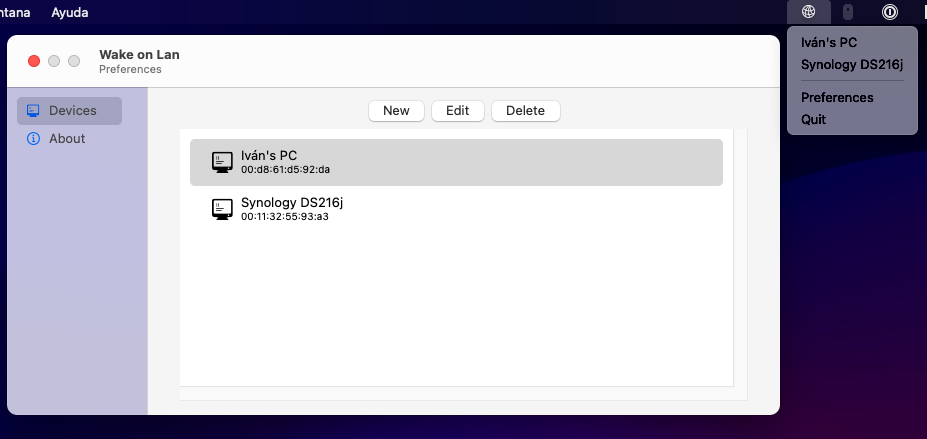
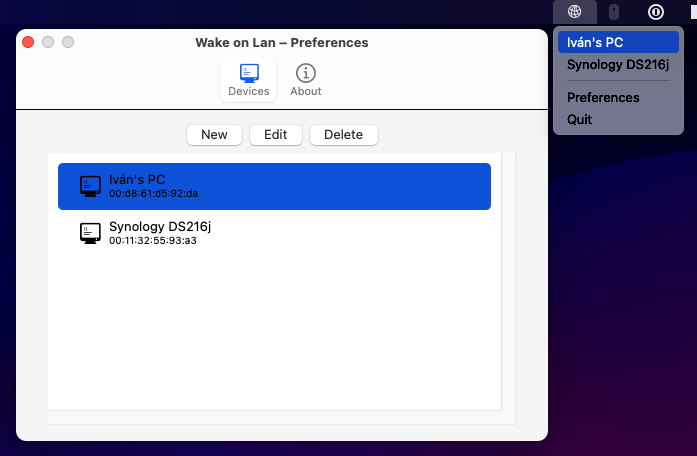
some styling for the preferences toolbar

diff --git a/Wake on Lan/AppKit/AKPreferencesWindow.swift b/Wake on Lan/AppKit/AKPreferencesWindow.swift
@@ -11,7 +11,6 @@ import SwiftUI
 class AKPreferencesWindow : NSWindow {
     
     let preferencesWindowToolbarIdentifier = NSToolbar.Identifier("PreferencesWindowToolbar")
-    
     let toolbarItemDevices = NSToolbarItem.Identifier("ToolbarDevicesItem")
     let toolbarItemAbout = NSToolbarItem.Identifier("ToolbarAboutItem")
     
@@ -19,21 +18,19 @@ class AKPreferencesWindow : NSWindow {
     
     init() {
         let frame = NSRect(x: 0, y: 0, width: 500, height: 300)
-        let styleMask: NSWindow.StyleMask = [.titled, .closable, .unifiedTitleAndToolbar]
+        let styleMask: NSWindow.StyleMask = [.titled, .closable]
         super.init(contentRect: frame, styleMask: styleMask, backing: .buffered, defer: false)
         
-        center()
         setFrameAutosaveName("Preferences")
         
         let newToolbar = NSToolbar(identifier: self.preferencesWindowToolbarIdentifier)
         newToolbar.delegate = self
         newToolbar.displayMode = .default
         
-        title = "Preferences"
+        title = "Wake on Lan"
         if #available(OSX 10.16, *) {
-            toolbarStyle = .automatic
-            subtitle = "Wake on Lan"
-            
+            toolbarStyle = .preference
+            subtitle = "Preferences"
         }
         
         toolbar = newToolbar
@@ -69,14 +66,14 @@ extension AKPreferencesWindow: NSToolbarDelegate {
             toolbarItem.target = self
             toolbarItem.action = #selector(changePreferencePanel(_:))
             toolbarItem.label = "Devices"
-            toolbarItem.paletteLabel = "Devics"
             toolbarItem.toolTip = "Open Devices panel"
             if #available(OSX 10.16, *) {
                 toolbarItem.image = NSImage(systemSymbolName: "pc", accessibilityDescription: "")
                 toolbarItem.isBordered = true
-            } else {
-                toolbarItem.image = NSImage(systemSymbolName: "pc", accessibilityDescription: "")
+            }else {
+                toolbarItem.image = NSImage(named: NSImage.bonjourName)
             }
+            
             return toolbarItem
         }
         
@@ -85,17 +82,16 @@ extension AKPreferencesWindow: NSToolbarDelegate {
             toolbarItem.target = self
             toolbarItem.action = #selector(changePreferencePanel(_:))
             toolbarItem.label = "About"
-            toolbarItem.paletteLabel = "About"
             toolbarItem.toolTip = "Open About panel"
             if #available(OSX 10.16, *) {
                 toolbarItem.image = NSImage(systemSymbolName: "info.circle", accessibilityDescription: "")
                 toolbarItem.isBordered = true
-            } else {
-                toolbarItem.image = NSImage(named: NSImage.advancedName)
+            }else {
+                toolbarItem.image = NSImage(named: NSImage.bonjourName)
             }
+            
             return toolbarItem
         }
-        
         return nil
     }
     
@@ -104,7 +100,6 @@ extension AKPreferencesWindow: NSToolbarDelegate {
         return [
             self.toolbarItemDevices,
             self.toolbarItemAbout,
-            NSToolbarItem.Identifier.space,
         ]
     }
     
@@ -112,7 +107,6 @@ extension AKPreferencesWindow: NSToolbarDelegate {
     {
         return [self.toolbarItemDevices,
                 self.toolbarItemAbout,
-                NSToolbarItem.Identifier.space,
         ]
     }
     

diff --git a/Wake on Lan/SwiftUI/Preferences/Devices/DevicePreferences.swift b/Wake on Lan/SwiftUI/Preferences/Devices/DevicePreferences.swift
@@ -24,8 +24,7 @@ struct DevicePreferences: View {
         contentView
             .frame(width: 500, height: 300)
             .frame(maxWidth: .infinity, maxHeight: .infinity)
-            .padding(.leading)
-            .padding(.trailing)
+            .padding()
     }
     
     @ViewBuilder
